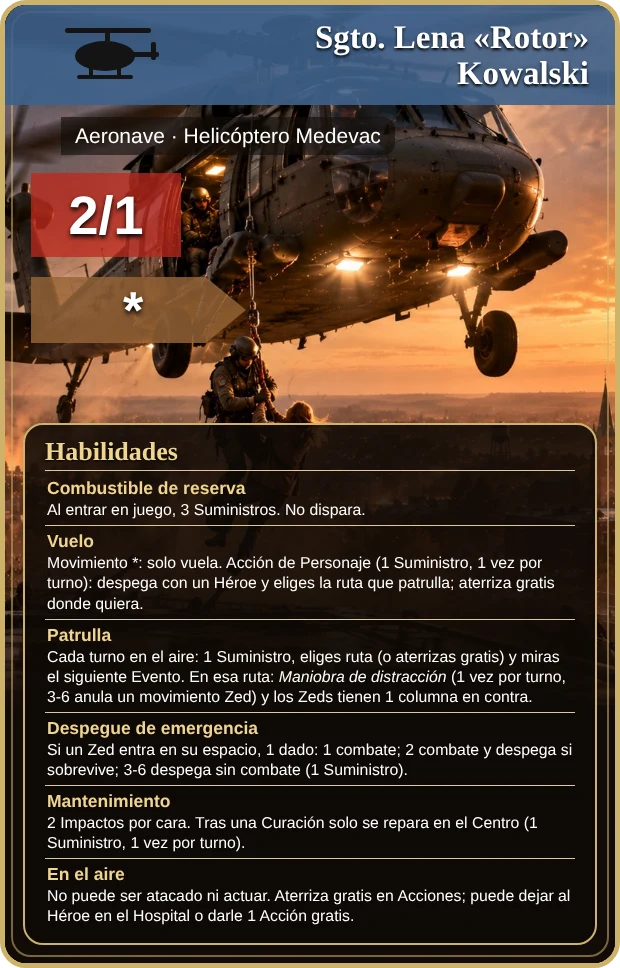
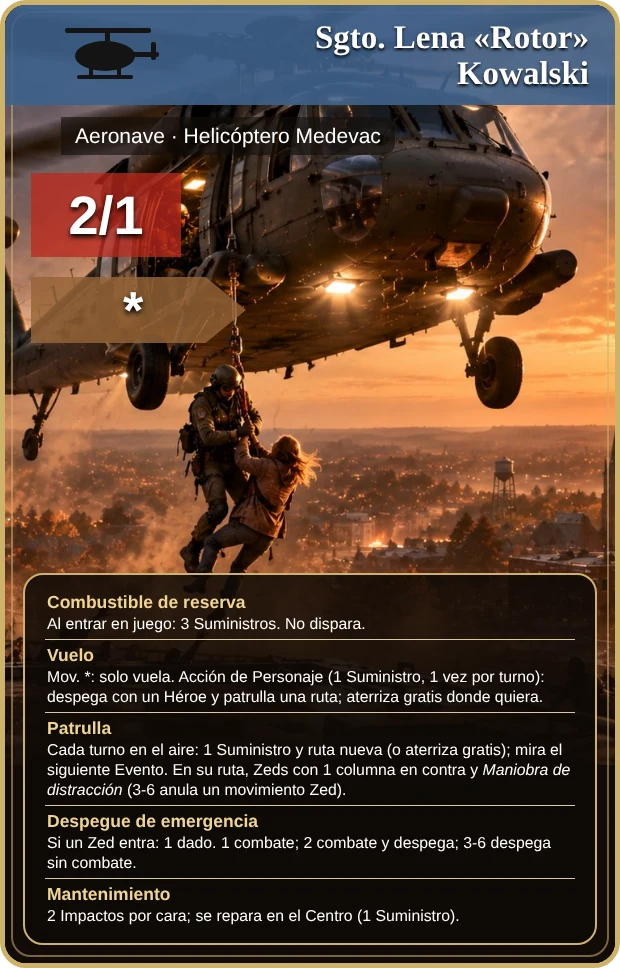
Carta del Helicóptero Medevac: resumen mayor, ilustración a dos tercios de la carta
Claude-Session: https://claude.ai/code/session_01KmRiLam16qxK6v4ebdfK1d

diff --git a/sw.js b/sw.js
@@ -1,7 +1,7 @@
 /* Service worker: permite instalar la web como app y jugar sin conexión.
    Código (html/js/css): red primero, con copia local de reserva. Imágenes y audio: caché primero. */
 'use strict';
-const CACHE = 'doz3-v55';
+const CACHE = 'doz3-v56';
 const SHELL = ['./', 'index.html', 'style.css', 'manifest.webmanifest', 'icons/icon-192.png', 'icons/icon-512.png', 'assets/portada.jpg', 'assets/fondo_nueva.webp', 'assets/fondo_ranking.webp',
   'js/version.js', 'js/data.js', 'js/events.js', 'js/dest.js', 'js/evlog.js', 'js/preview.js', 'js/obituario.js', 'js/engine.js', 'js/game.js', 'js/phases.js', 'js/actions.js', 'js/cardtext.js', 'js/ui.js', 'js/anim.js',
   'js/expansions.js', 'js/expansions2.js', 'js/sfx.js', 'js/sound.js', 'js/opciones.js', 'js/voz.js', 'js/ost.js', 'assets/sonidos/letras/letras.js', 'assets/sonidos/efectos/sfx_disparo.mp3', 'assets/sonidos/efectos/sfx_disparo_largo.mp3', 'js/mapzoom.js', 'js/seedcode.js', 'js/save.js', 'js/main.js', 'js/bot.js'];

diff --git a/js/version.js b/js/version.js
@@ -1,2 +1,2 @@
 /* Fecha y hora de la última build (hora de Madrid). Se actualiza con cada cambio publicado. */
-const BUILD_TIME = '2026-11-01 01:00';
+const BUILD_TIME = '2026-11-01 01:20';

diff --git a/CHANGELOG.md b/CHANGELOG.md
@@ -2,6 +2,11 @@
 
 Registro de cambios por publicación (push a `main`). Lo más reciente, arriba. Cada entrada lleva la misma fecha y hora que `BUILD_TIME` de `js/version.js`.
 
+## 2026-11-01 01:20
+
+### Cambios
+- **Carta del Helicóptero Medevac:** resumen más agresivo de las habilidades (sin el rótulo «Habilidades» ni el bloque «En el aire», que sigue vigente en las reglas del juego) para que la ilustración ocupe unos dos tercios de la carta.
+
 ## 2026-11-01 01:00
 
 ### Cambios
